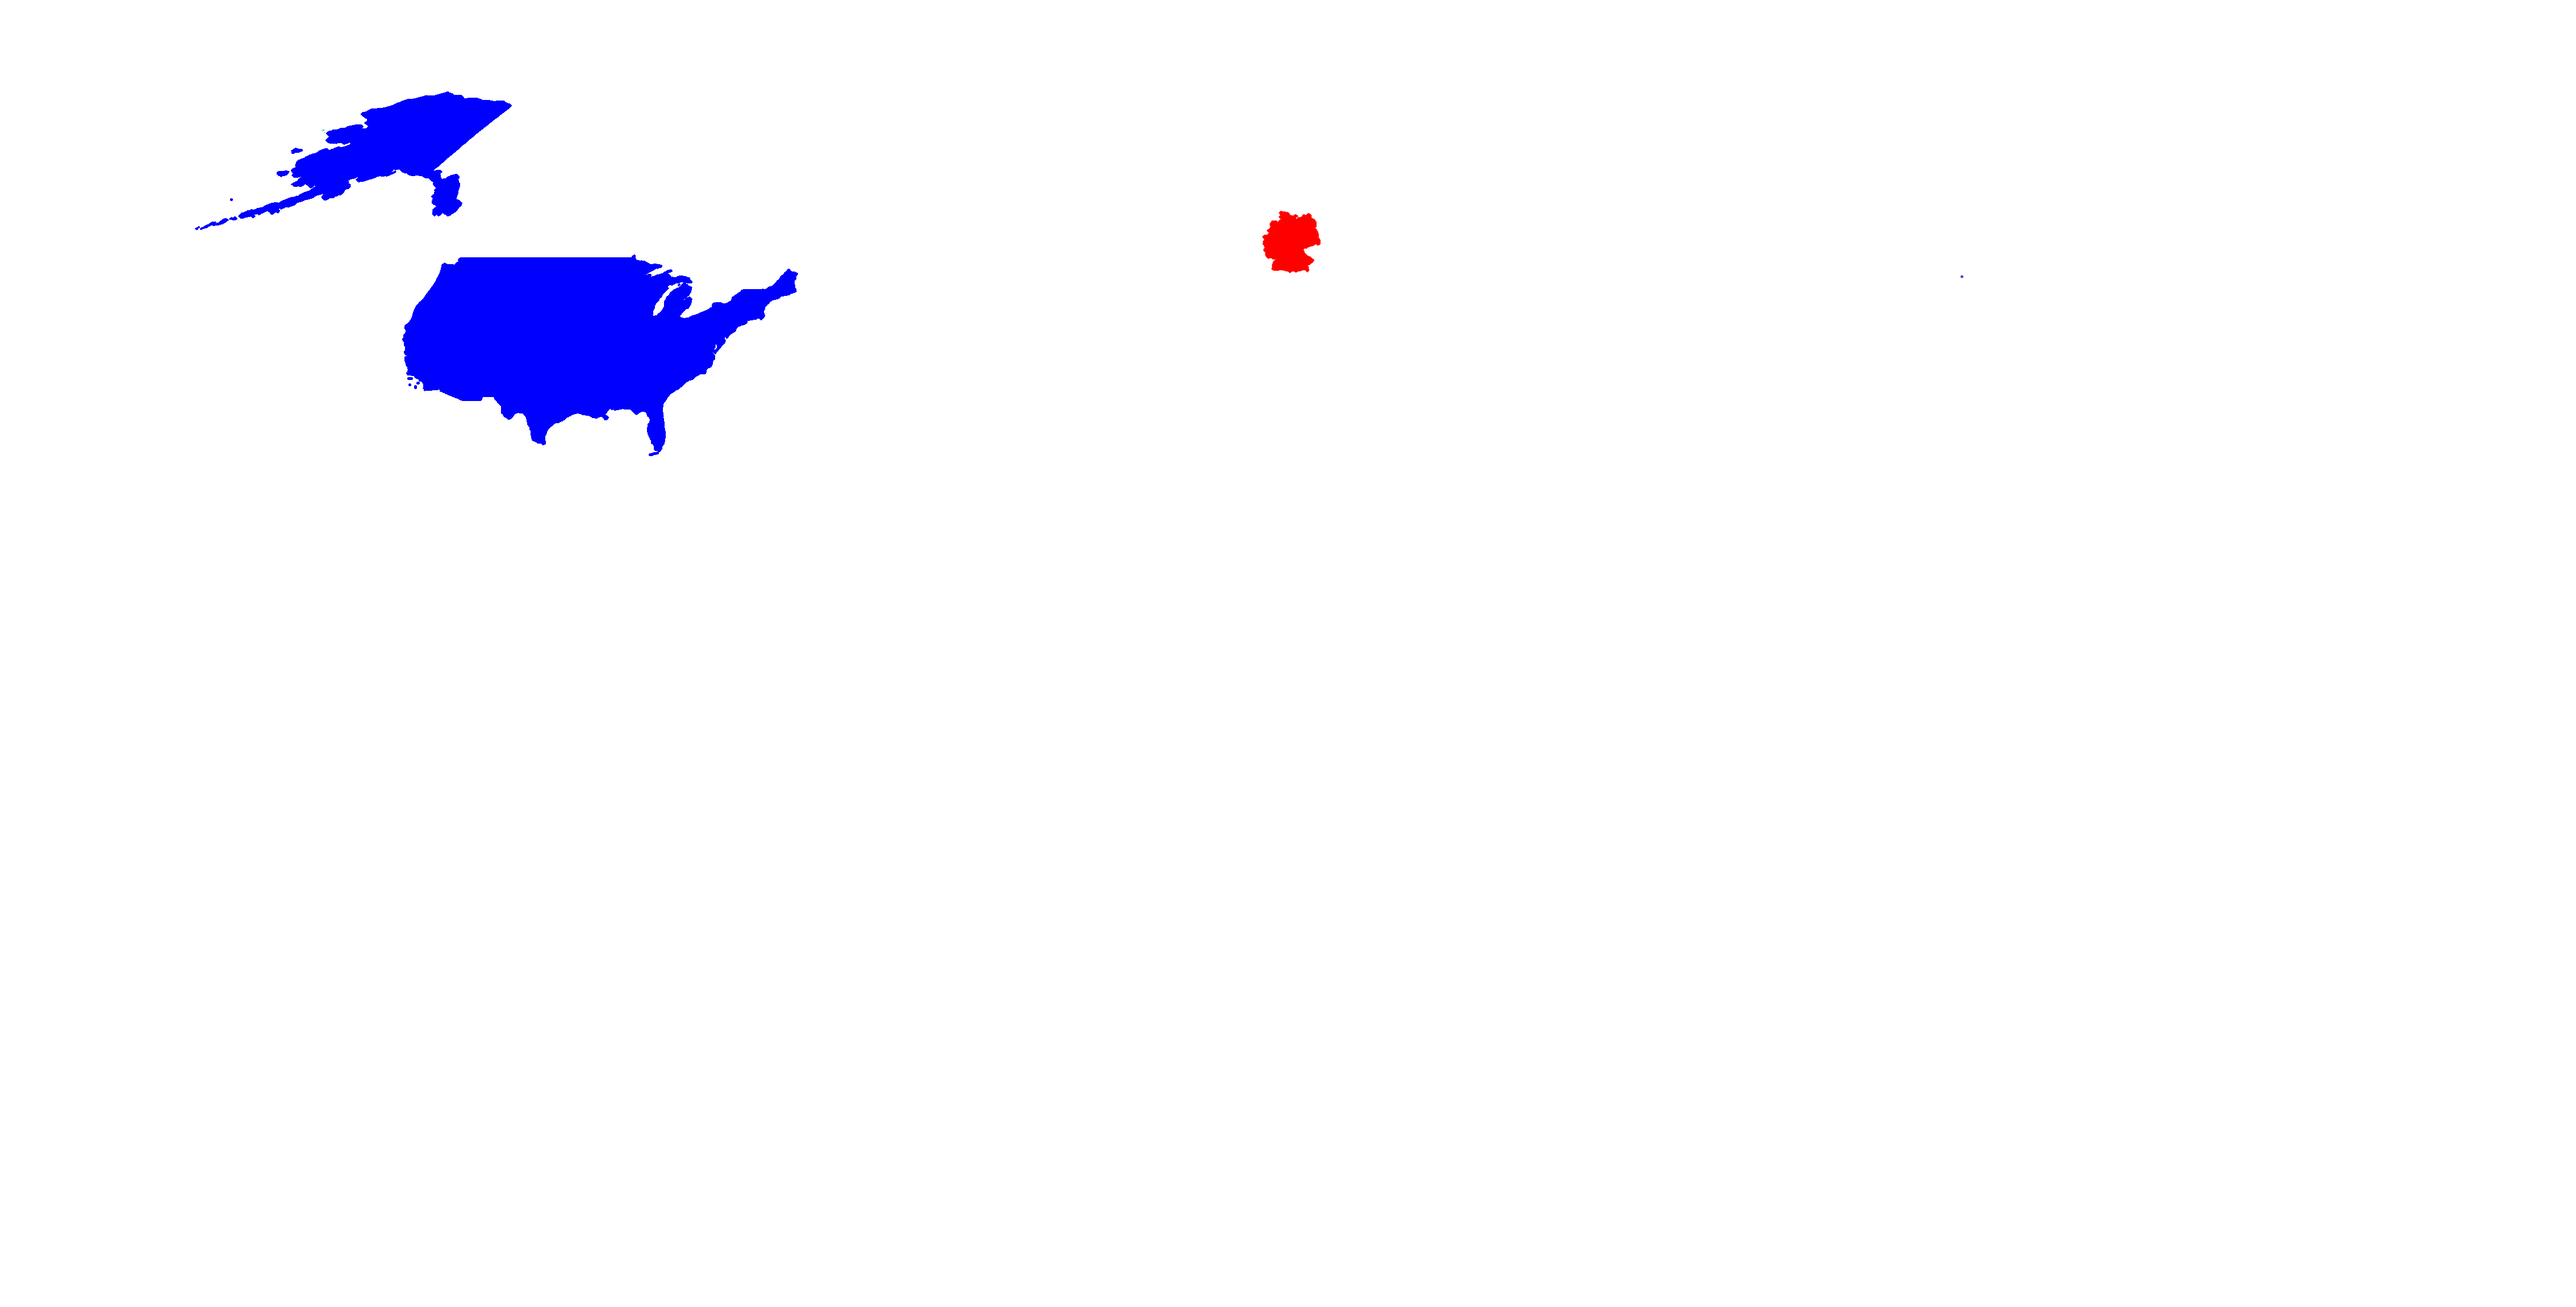
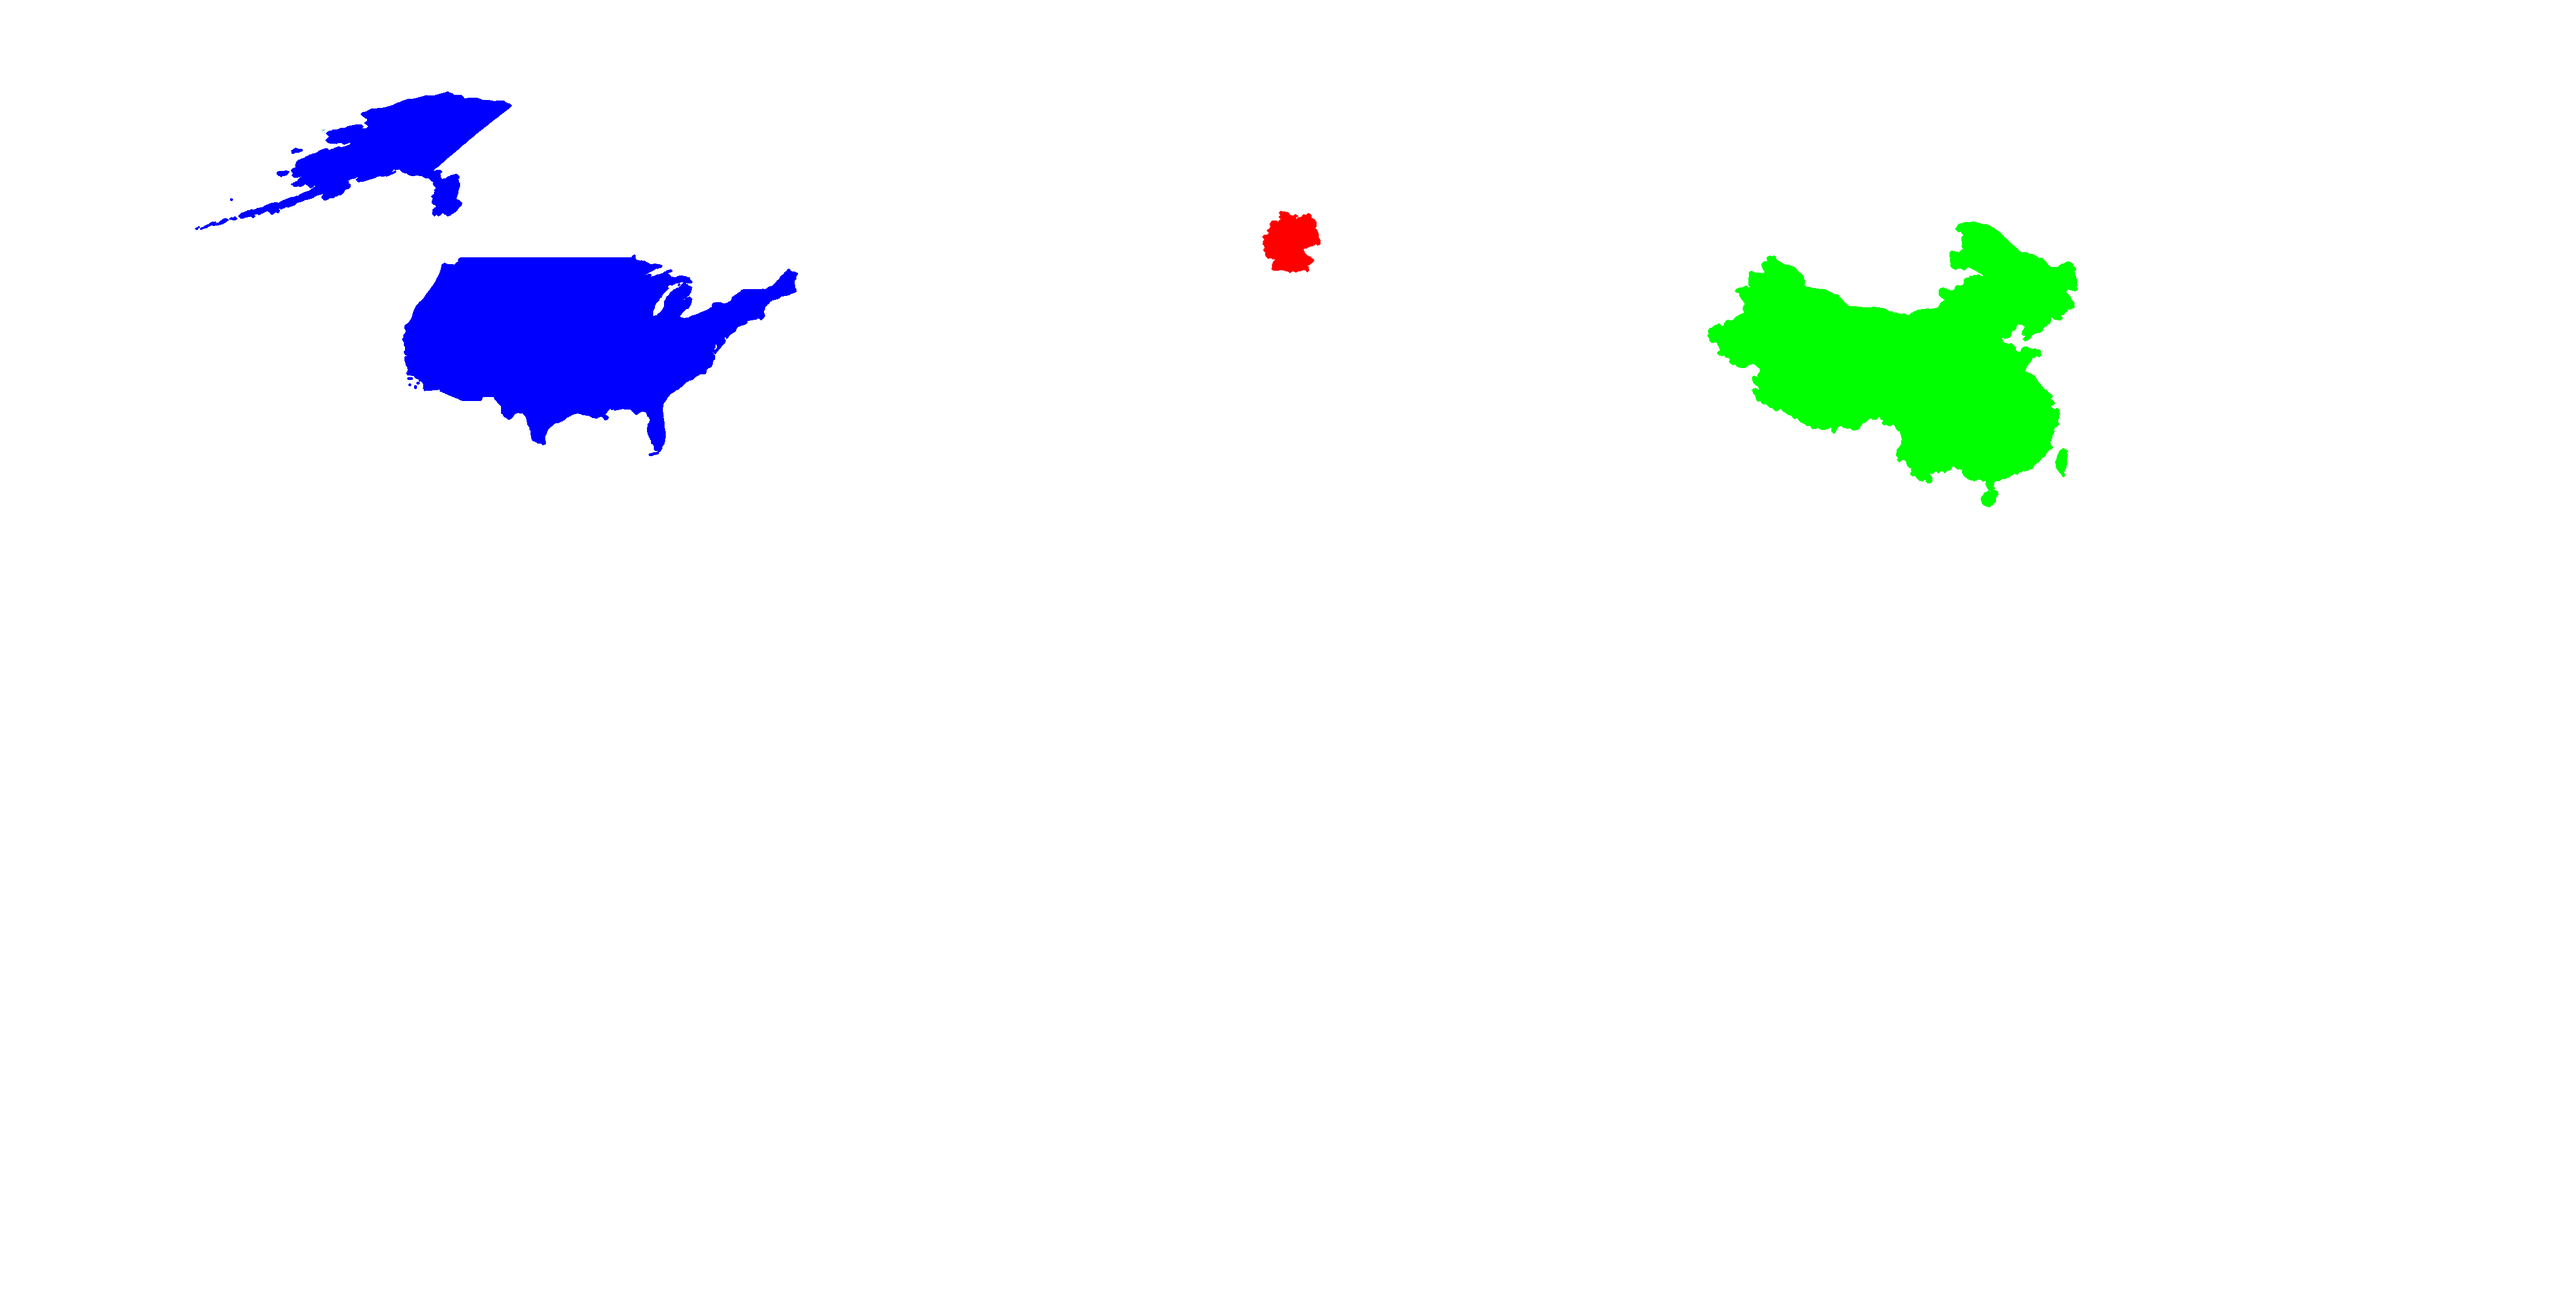
Added China

Changed region(s): [[0.6529, 0.1543, 0.8084, 0.3703]]

diff --git a/map/index.html b/map/index.html
@@ -13,6 +13,7 @@
         <img id="interactionmap" src="../assets/interaction_map.png">
         <img class="countrymap" id="mapusa" src="../assets/world_map_usa.png" alt="Karte der Vereinigten Staaten">
         <img class="countrymap" id="mapgermany" src="../assets/world_map_germany.png" alt="Karte der Bundesrepublik Deutschlands">
+        <img class="countrymap" id="mapchina" src="../assets/world_map_china.png" alt="Karte der Volksrepublik China">
     </div>
     <script src="index.js"></script>
 </body>

diff --git a/map/index.js b/map/index.js
@@ -1,6 +1,6 @@
 window.onload = () => {
-const countryNames = ["usa", "germany"]
-const countryColors = [[false, false, true], [true, false, false]]
+const countryNames = ["usa", "germany", "china"]
+const countryColors = [[false, false, true], [true, false, false], [false, true, false]]
 const worldmap = document.getElementById("worldmap");
 
 const relations = {
